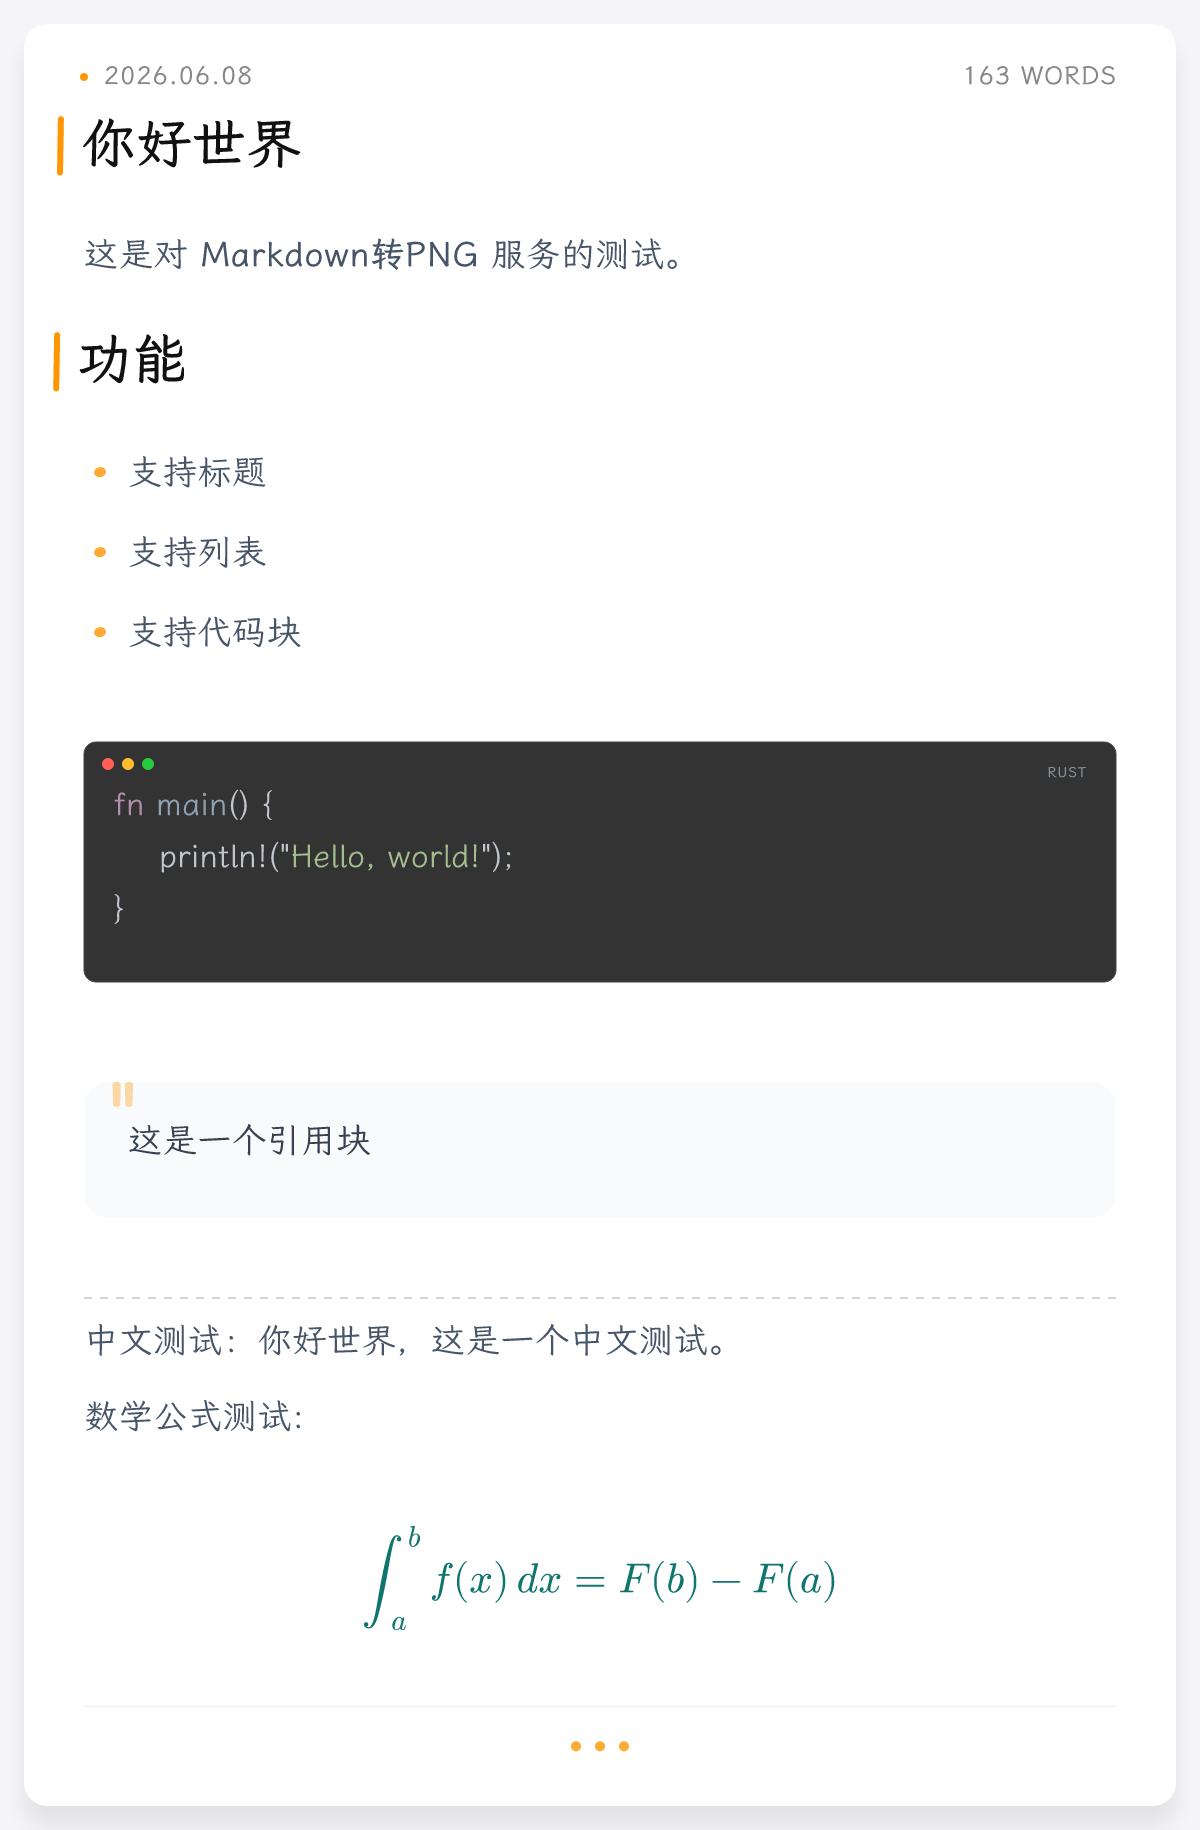
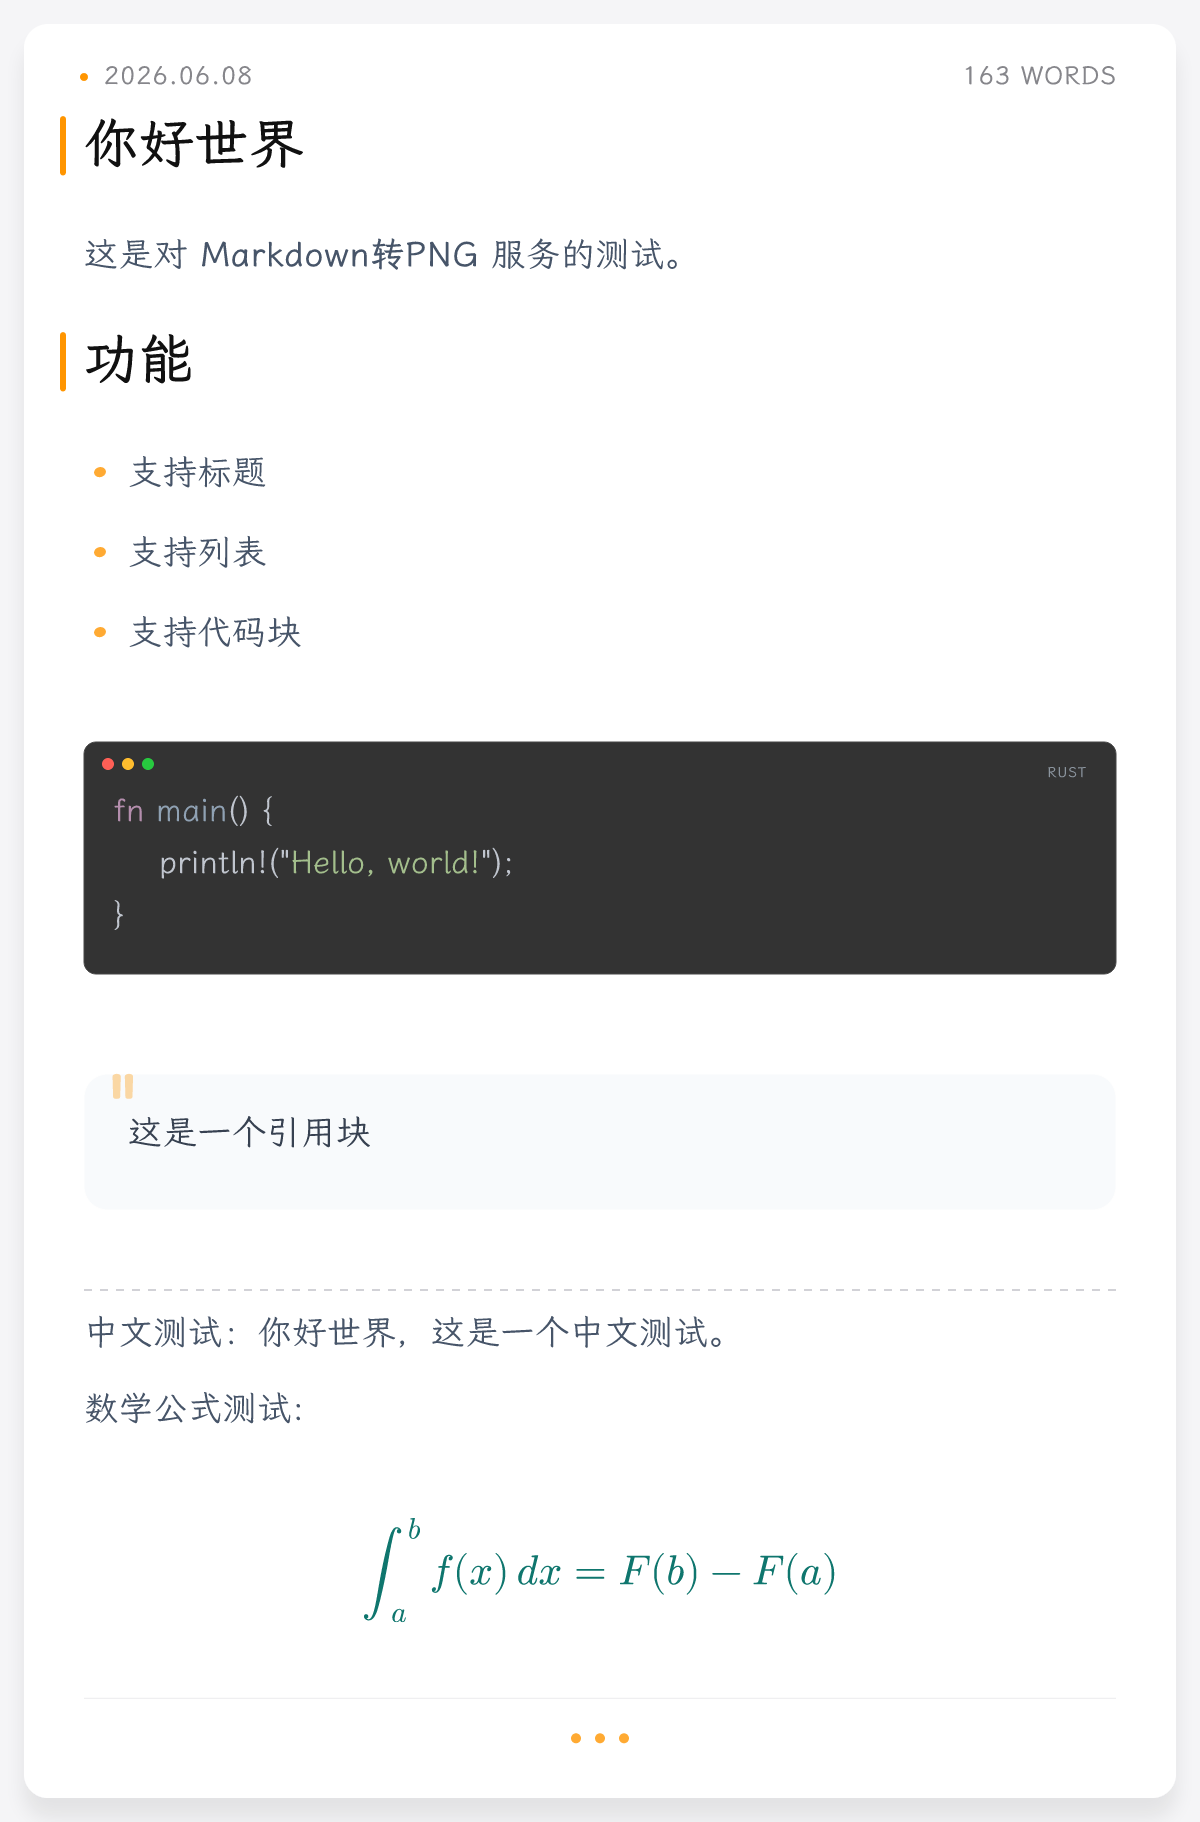
增加多平台支持 linux docker

diff --git a/README.md b/README.md
@@ -121,13 +121,55 @@ http://localhost:3001/
 Markdown-to-PNG Service is running
 ```
 
-### 方式二：使用 Cargo 运行
+### 方式二：使用 Docker 运行
+
+拉取镜像：
+
+```bash
+docker pull radiant303/markdown-preview-service:0.0.3
+```
+
+启动服务：
+
+```bash
+docker run -d \
+  --name markdown-preview-service \
+  -p 3001:3001 \
+  --restart unless-stopped \
+  radiant303/markdown-preview-service:0.0.3
+```
+
+启动后访问：
+
+```text
+http://localhost:3001/
+```
+
+生成 PNG：
+
+```bash
+curl -X POST --data-binary "@test.md" http://localhost:3001/generate -o output.png
+```
+
+停止服务：
+
+```bash
+docker stop markdown-preview-service
+```
+
+删除容器：
+
+```bash
+docker rm markdown-preview-service
+```
+
+### 方式三：使用 Cargo 运行
 
 ```powershell
 cargo run
 ```
 
-### 方式三：重新编译 release 版本
+### 方式四：重新编译 release 版本
 
 修改代码后，需要重新编译 release exe：
 